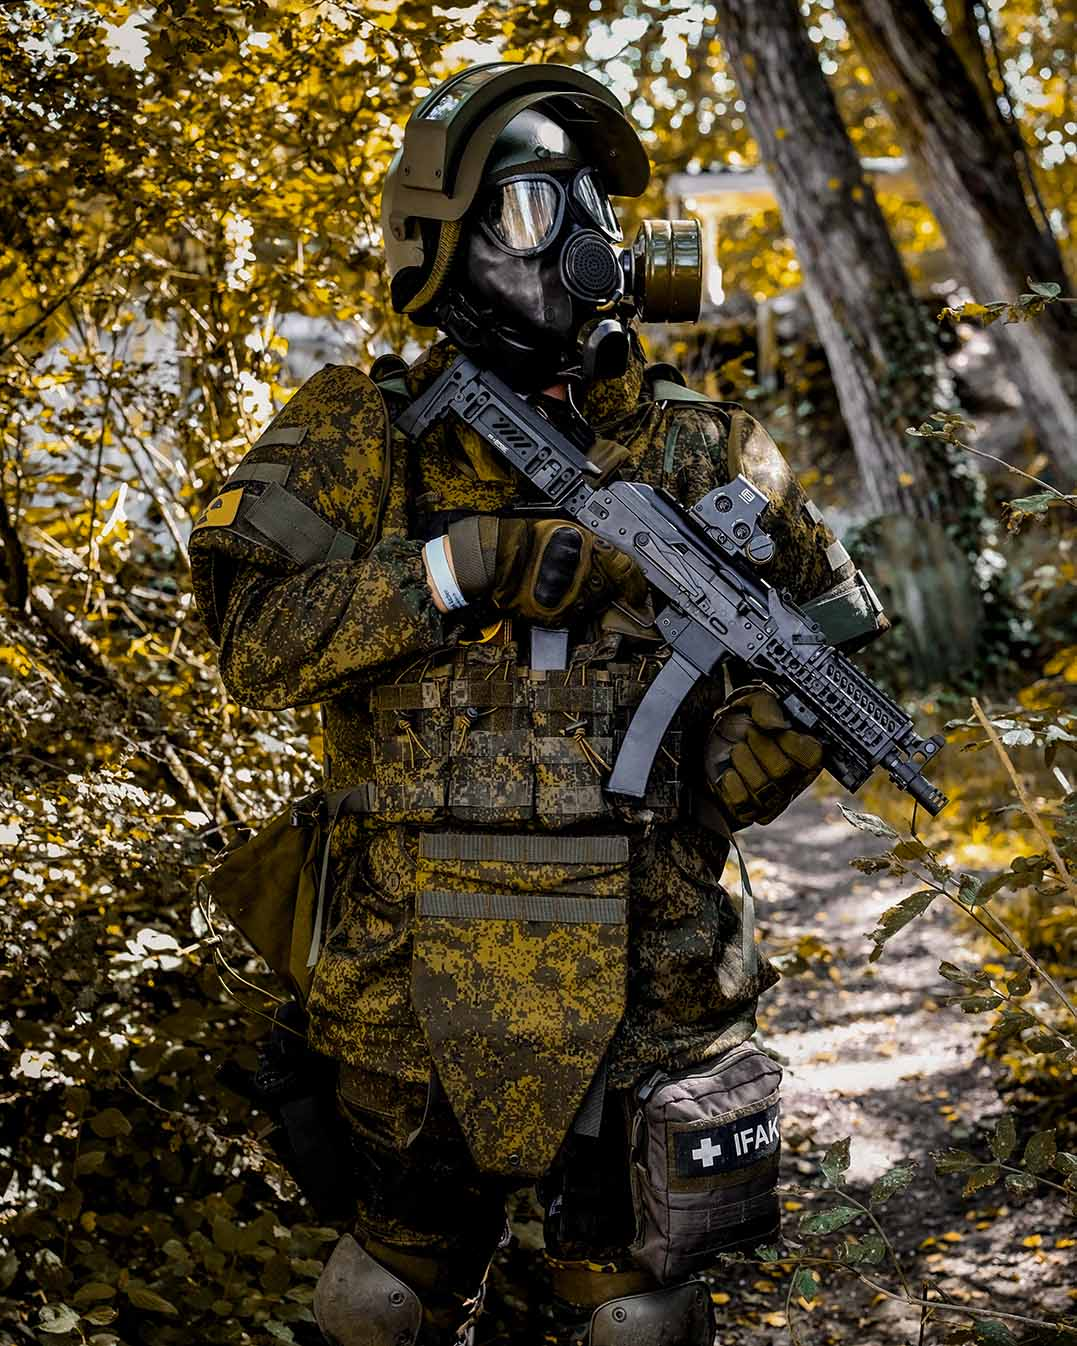
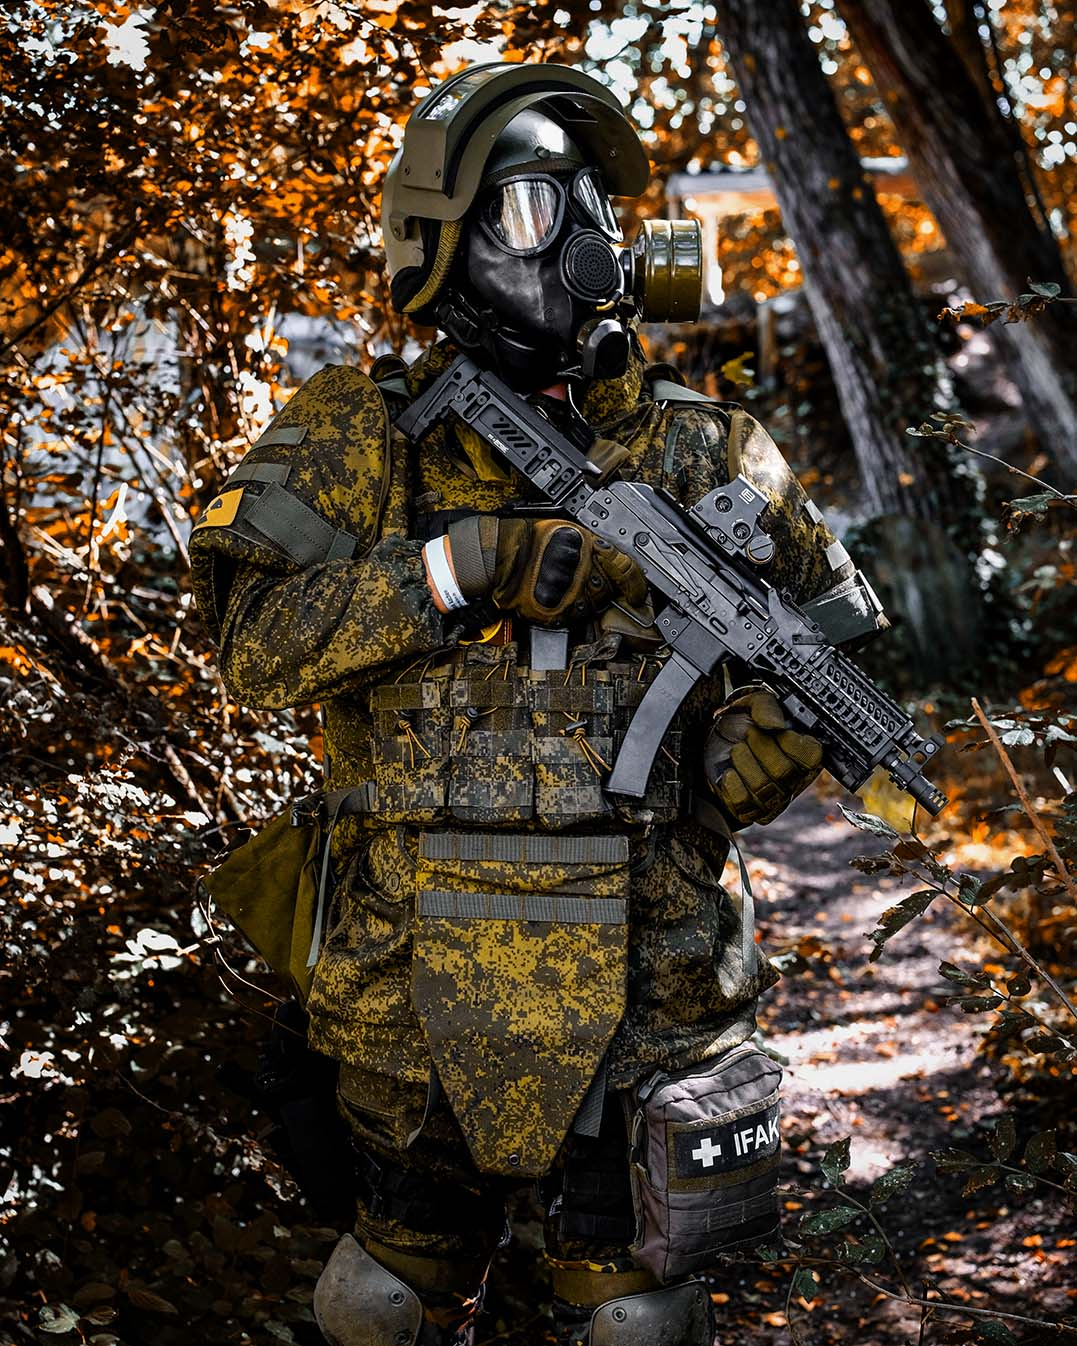
Portrait Updates

diff --git a/team/index.html b/team/index.html
@@ -188,7 +188,7 @@
             <dt>Rolle</dt>
             <dd>Vorstoß</dd>
             <dt>Replika</dt>
-            <dd>E&amp;L AKS 74N</dd>
+            <dd>E&amp;L AKS-74N</dd>
             <dt>Tarnung</dt>
             <dd>SS-Leto</dd>
         </dl>
